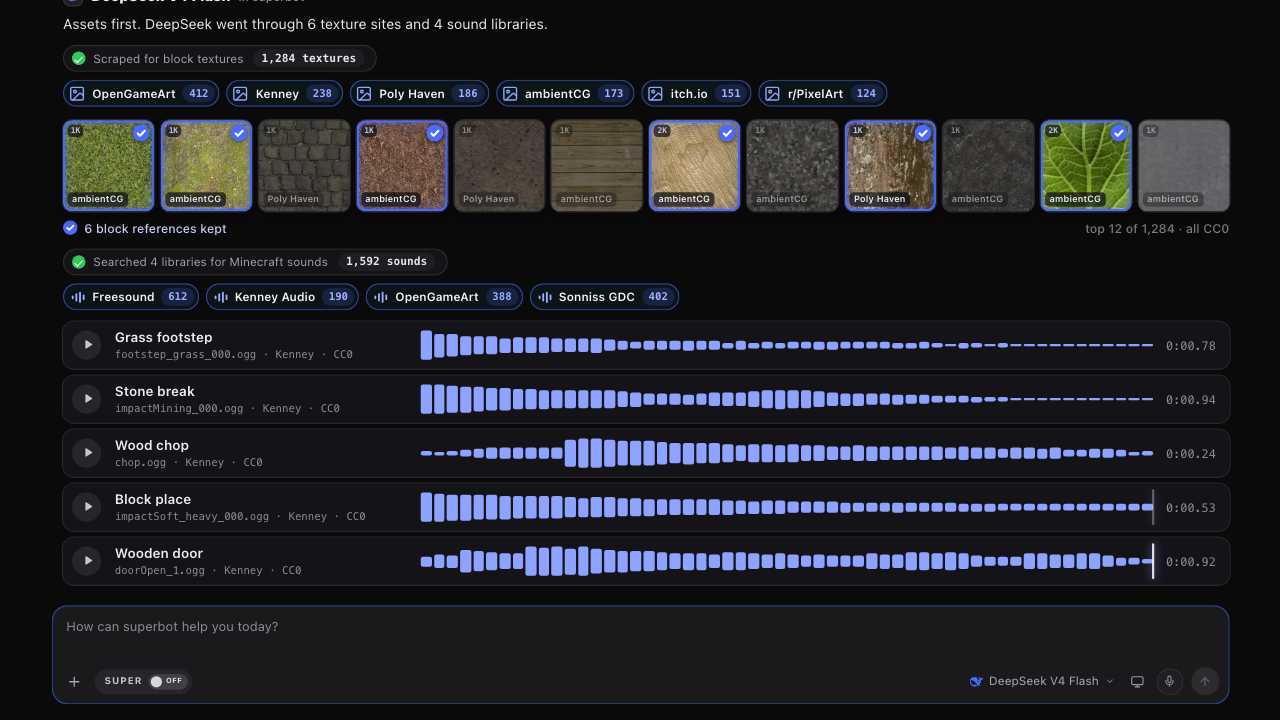
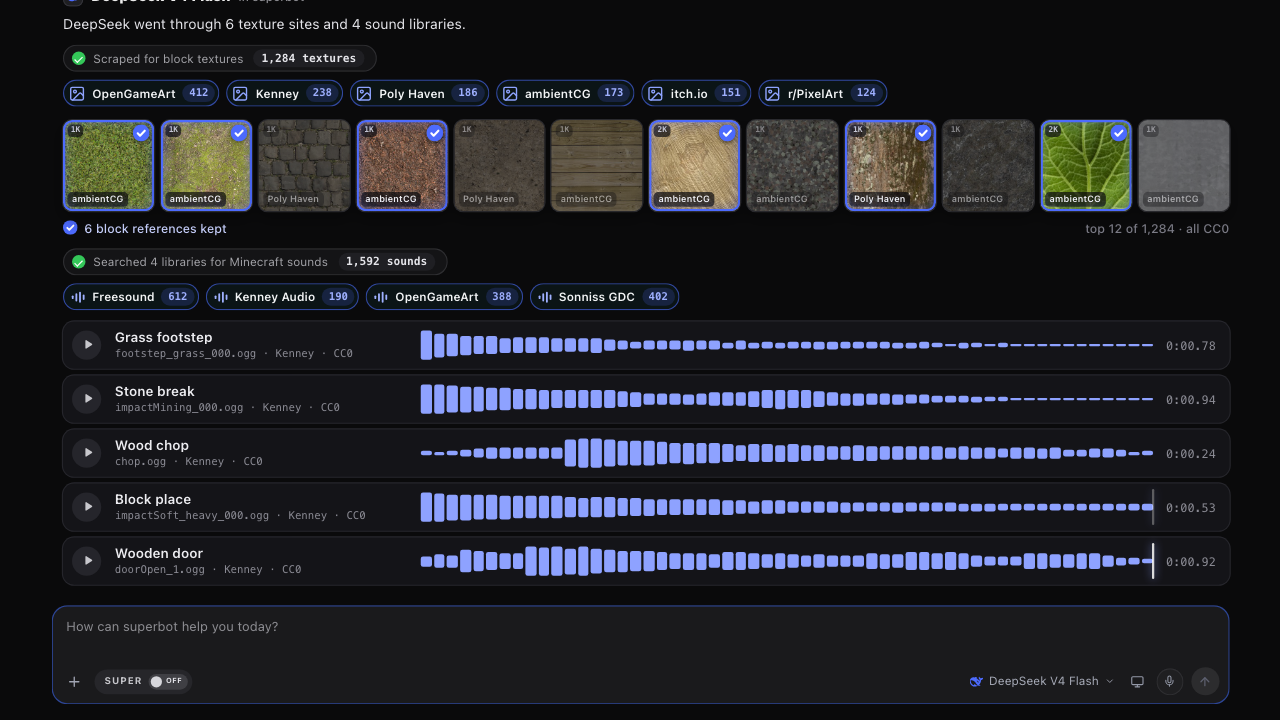
minecraft ad b055c127: GitHub first, Opus last
Order is now GitHub (connect, create sam/blockcraft, first commit) -> DeepSeek (textures + sounds) -> Gemini (decals) -> Opus 5.5 (engine, then ship in one reply). Copy and steps-cut asks follow.

diff --git a/animations/make-minecraft-every-model-superbot-b055c127/scenes/tabs-assets/cuts.js b/animations/make-minecraft-every-model-superbot-b055c127/scenes/tabs-assets/cuts.js
@@ -1,7 +1,7 @@
 // The three cuts of make-minecraft-every-model, one page: ?cut= picks one (the gallery lists each as its own ad).
-// Every cut keeps the same hand-off order, Opus last: DeepSeek V4 Flash scrapes block references and sounds, Gemini
-// makes the decals, GitHub gets the assets, then Opus 5.5 writes the game and ships it in one reply. asks[] and say{}
-// follow that order (asks: deepseek, gemini, github, opus code, opus ship; null = superbot carries on unasked). A cut
+// Every cut keeps the same hand-off order, GitHub first and Opus last: GitHub sets up the repo, DeepSeek V4 Flash
+// scrapes block references and sounds, Gemini makes the decals, then Opus 5.5 writes the game and ships it in one
+// reply. asks[] and say{} follow that order (asks: github, deepseek, gemini, opus code, opus ship; null = superbot carries on unasked). A cut
 // varies the copy, the pacing (pace scales every beat's own clock), whether sam asks for each step, and the finale
 // (zoom: the camera dives into the running game).
 export const CUTS = {
@@ -9,20 +9,20 @@ export const CUTS = {
     pace: 1, zoom: false, end: 'superbot',
     asks: ['I want to make minecraft', null, null, null, null],
     say: {
-      scrape: 'Assets first. Block references from 6 texture sites, SFX from 4 sound libraries.',
+      scrape: 'Now the assets. Block references from 6 texture sites, SFX from 4 sound libraries.',
       gen: 'Here are your block decals, 16×16, made from those references.',
-      gh: 'Putting the assets on your GitHub.',
+      gh: 'First, a repo on your GitHub.',
       code: 'Assets are in. Writing the engine: terrain, chunks, meshing, physics, the renderer.',
       ship: 'Decals in the atlas, sounds wired, build is green. Here’s your game.',
     },
   },
   steps: {
     pace: 1.08, zoom: false, end: 'superbot',
-    asks: ['I want to make minecraft', 'make me the decals', 'push it to my github', 'now write the game', null],
+    asks: ['I want to make minecraft', 'find block textures and sounds', 'make me the decals', 'now write the game', null],
     say: {
-      scrape: 'Assets first. DeepSeek went through 6 texture sites and 4 sound libraries.',
+      scrape: 'DeepSeek went through 6 texture sites and 4 sound libraries.',
       gen: 'Gemini made 6 blocks from those references.',
-      gh: 'Connect GitHub and I’ll push the assets.',
+      gh: 'Connect GitHub and I’ll set up the repo.',
       code: 'Assets are in. Opus 5.5 writes the engine, then the player.',
       ship: 'Textured, built and running.',
     },
@@ -31,9 +31,9 @@ export const CUTS = {
     pace: 0.86, zoom: true, end: 'superbot',
     asks: ['I want to make minecraft', null, null, null, null],
     say: {
-      scrape: 'Assets first. Scraping texture sites and sound libraries.',
+      scrape: 'Now the assets. Scraping texture sites and sound libraries.',
       gen: 'Your decals.',
-      gh: 'Pushing the assets to your GitHub.',
+      gh: 'Setting up your GitHub repo.',
       code: 'Assets are in. Writing the whole thing: engine, world gen, player, renderer.',
       ship: 'Everything wired up. Hit play.',
     },

diff --git a/animations/make-minecraft-every-model-superbot-b055c127/scenes/tabs-assets/chat.js b/animations/make-minecraft-every-model-superbot-b055c127/scenes/tabs-assets/chat.js
@@ -1,15 +1,15 @@
-// "I want to make minecraft": one ask, five hand-offs, Opus last. Superbot switches to DeepSeek V4 Flash to scrape
-// for block references and sounds, to Gemini to make the decals, connects GitHub and pushes the assets, then switches
-// to Claude Opus 5.5 to write the game and, in the same reply (no second switch), wire the assets in and run it
+// "I want to make minecraft": one ask, five hand-offs, GitHub first and Opus last. Superbot connects GitHub and sets
+// up the repo, switches to DeepSeek V4 Flash to scrape for block references and sounds, to Gemini to make the decals,
+// then to Claude Opus 5.5 to write the game and, in the same reply (no second switch), wire the assets in and run it
 // (./beats/*.js). Its routing chips and the composer's platform chip follow the model.
 // ./cuts.js holds the three published cuts (?cut=): copy, pacing, follow-up asks and the finale. The thread is
 // bottom-anchored so every message rises out of the composer. renderChat(c, t) is a pure function of the scene's
 // local time. ?v= on the beat imports busts GitHub Pages' 10-minute module cache on republish.
 import { clamp, lerp, seg, outCubic, outBack, inOutCubic, esc, boxIn, placeCursor } from '../../lib.js';
 import { makeCursor } from '../../shell.js';
-import { CFG } from './cuts.js?v=4';
+import { CFG } from './cuts.js?v=5';
 import opusCode from './beats/opus-code.js?v=4';
-import github from './beats/github.js?v=5';
+import github from './beats/github.js?v=6';
 import decalScrape from './beats/decal-scrape.js?v=4';
 import decalGen from './beats/decal-gen.js?v=3';
 import opusShip from './beats/opus-ship.js?v=5';
@@ -32,9 +32,9 @@ const APPS = {
 // the hand-off order is fixed for every cut; the cut only decides whether sam asks for each step. The ship step has
 // no chips: it is Opus 5.5 carrying on, so (unasked) it continues the code step's reply instead of opening its own
 const STEPS = [
+  { app: 'github', mod: github, chips: [['github', 'Connecting to GitHub']] },
   { app: 'deepseek', mod: decalScrape, chips: [['deepseek', 'Switching to DeepSeek V4 Flash']] },
   { app: 'gemini', mod: decalGen, chips: [['gemini', 'Switching to Gemini']] },
-  { app: 'github', mod: github, chips: [['github', 'Connecting to GitHub']] },
   { app: 'opus', mod: opusCode, chips: [['opus', 'Switching to Opus 5.5']] },
   { app: 'opus', mod: opusShip, chips: [] },
 ];

diff --git a/animations/make-minecraft-every-model-superbot-b055c127/scenes/tabs-assets/beats/github.js b/animations/make-minecraft-every-model-superbot-b055c127/scenes/tabs-assets/beats/github.js
@@ -1,5 +1,5 @@
 // GitHub: the connect card lands, the pointer presses Connect and it flips to Connected (../../do-that-too-apps
-// cursor.js), then the repo is created and the assets pushed (decal-scrape.js / decal-gen.js: 6 decals, 5 sounds).
+// cursor.js), then the repo is created with a first commit, before any other model works.
 import { lerp, seg, outBack, inOutCubic, press, path } from '../../../lib.js';
 import { sayer, rise, GH, O_CHECK, O_BRANCH, REPO, TICK } from './kit.js';
 
@@ -22,7 +22,7 @@ export default {
     </div>`);
     const rows = x.el(`<div class="mc-rows">
       <div class="mc-row"><span class="mc-si">${REPO}</span><span>Created</span><b>sam/blockcraft</b><em class="mc-dim">private</em><span class="mc-okp">${TICK}</span></div>
-      <div class="mc-row"><span class="mc-si">${O_BRANCH}</span><span>Pushed</span><b>11 assets</b><em class="mc-dim">6 decals &middot; 5 sounds</em><span class="mc-okp">${TICK}</span></div>
+      <div class="mc-row"><span class="mc-si">${O_BRANCH}</span><span>Pushed</span><b>first commit</b><em class="mc-dim">main &middot; README</em><span class="mc-okp">${TICK}</span></div>
     </div>`);
     const btn = card.querySelector('.cd-gh-btn'), ok = card.querySelector('.cd-gh-ok'), fa = card.firstElementChild, fb = card.lastElementChild;
     const rs = [...rows.children];

diff --git a/animations/make-minecraft-every-model-superbot-b055c127/timeline.js b/animations/make-minecraft-every-model-superbot-b055c127/timeline.js
@@ -5,7 +5,7 @@
 // (scenes/<id>.js, mounted once, rendered only while active) and the waffles-website end card.
 import * as lib from './lib.js';
 import * as shell from './shell.js';
-import { CFG } from './scenes/tabs-assets/cuts.js?v=4';
+import { CFG } from './scenes/tabs-assets/cuts.js?v=5';
 
 const { clamp, lerp, seg, outCubic, outQuint, inOutCubic, outBack } = lib;
 const H = 1080;
@@ -189,7 +189,7 @@ await Promise.all(sceneIds.map(async (id) => {
   css.rel = 'stylesheet'; css.href = new URL(`./scenes/${id}.css?v=10`, import.meta.url).href;
   document.head.appendChild(css);
   try {
-    const m = (await import(`./scenes/${id}.js?v=18`)).default;
+    const m = (await import(`./scenes/${id}.js?v=19`)).default;
     if (!m || typeof m.render !== 'function') throw new Error(`scenes/${id}.js has no default { dur, mount, render } export`);
     MODS[id] = m;
   } catch (err) {

diff --git a/animations/make-minecraft-every-model-superbot-b055c127/scenes/tabs.js b/animations/make-minecraft-every-model-superbot-b055c127/scenes/tabs.js
@@ -6,8 +6,8 @@
 // is a pure function of local time. The scene keeps the id "tabs" so the hub's generated stylesheets (scoped under
 // #s-tabs) apply unchanged.
 import { hubMarkup } from './tabs-assets/hub-markup.js';
-import { mountChat, renderChat, BEATS, CHAT_T0, CHAT_END } from './tabs-assets/chat.js?v=14';
-import { CFG } from './tabs-assets/cuts.js?v=4';
+import { mountChat, renderChat, BEATS, CHAT_T0, CHAT_END } from './tabs-assets/chat.js?v=15';
+import { CFG } from './tabs-assets/cuts.js?v=5';
 import { clamp, lerp, seg, outCubic, inOutCubic, boxIn } from '../lib.js';
 
 const asset = (f) => new URL('./tabs-assets/' + f, import.meta.url).href;

diff --git a/animations/make-minecraft-every-model-superbot-b055c127/index.html b/animations/make-minecraft-every-model-superbot-b055c127/index.html
@@ -34,6 +34,6 @@
 
 <script src="../../assets/sb-mark-live.js"></script>
 <script src="recorder.js"></script>
-<script type="module" src="timeline.js?v=17"></script>
+<script type="module" src="timeline.js?v=18"></script>
 </body>
 </html>
